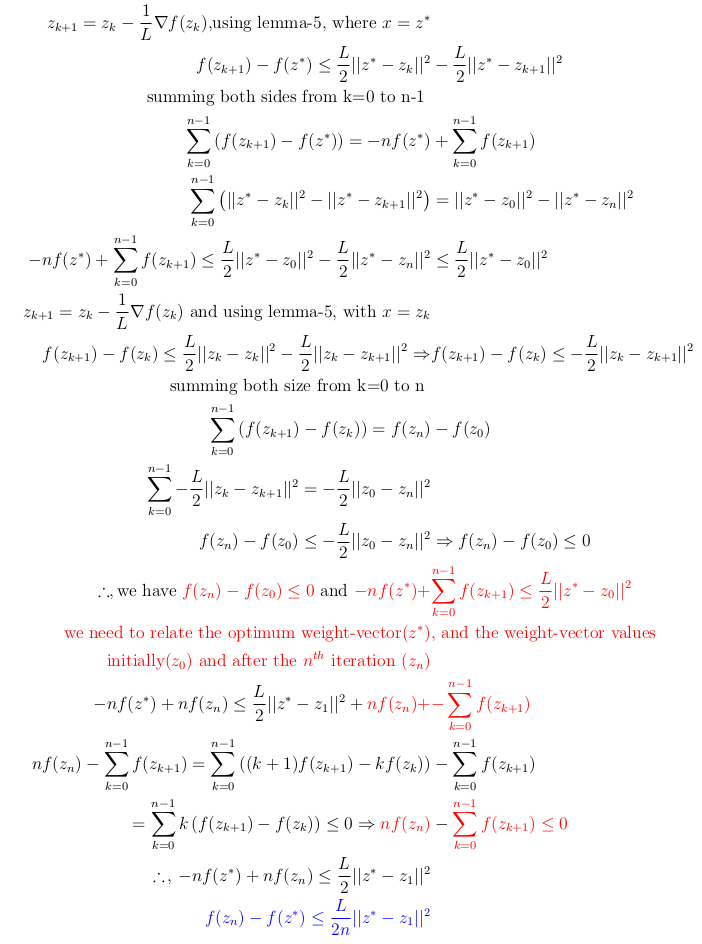
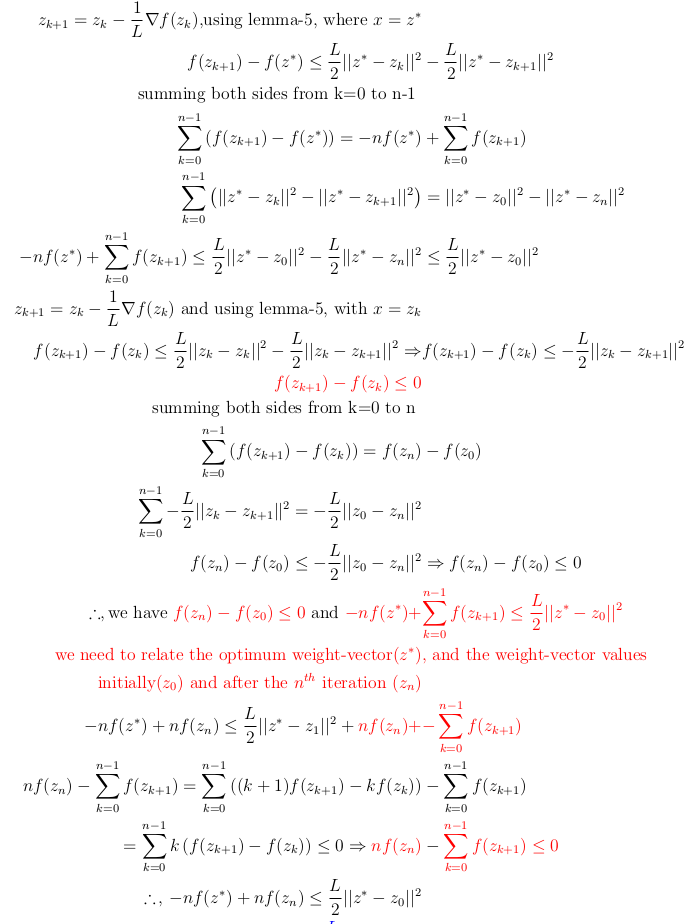
altered convergence proof image a bit

diff --git a/notes/ANN/README.md b/notes/ANN/README.md
@@ -171,11 +171,14 @@ y can either be the final output or the next layer. layer l having n neurons has
       <img src="proofs/lemma-5-proof.png" />
     - <font color="red">intuitive explanation remaining!!!!</font>
     - see, you need ![This is the rendered form of the equation. You can not edit this directly. Right click will give you the option to save the image, and in most browsers you can drag the image onto your desktop or another program.](https://latex.codecogs.com/gif.latex?x-z) and ![This is the rendered form of the equation. You can not edit this directly. Right click will give you the option to save the image, and in most browsers you can drag the image onto your desktop or another program.](https://latex.codecogs.com/gif.latex?x-z%5E&plus;) since z and ![This is the rendered form of the equation. You can not edit this directly. Right click will give you the option to save the image, and in most browsers you can drag the image onto your desktop or another program.](https://latex.codecogs.com/gif.latex?z%5E&plus;) will be substituted with ![This is the rendered form of the equation. You can not edit this directly. Right click will give you the option to save the image, and in most browsers you can drag the image onto your desktop or another program.](https://latex.codecogs.com/gif.latex?z_k) and ![This is the rendered form of the equation. You can not edit this directly. Right click will give you the option to save the image, and in most browsers you can drag the image onto your desktop or another program.](https://latex.codecogs.com/gif.latex?z_%7Bk&plus;1%7D) (as will be seen in the [next section](#cc)) , and these will cancel out on summing across all iterations, hence while arriving at this identity, think of these 2 magnitude terms being involved in the inequality.
+    - moreover, L.H.S. will need to have ![This is the rendered form of the equation. You can not edit this directly. Right click will give you the option to save the image, and in most browsers you can drag the image onto your desktop or another program.](https://latex.codecogs.com/gif.latex?f%28z%5E&plus;%29%20-%20f%28x%29) , since![This is the rendered form of the equation. You can not edit this directly. Right click will give you the option to save the image, and in most browsers you can drag the image onto your desktop or another program.](https://latex.codecogs.com/gif.latex?z%5E&plus;/x) will be substituted by ![This is the rendered form of the equation. You can not edit this directly. Right click will give you the option to save the image, and in most browsers you can drag the image onto your desktop or another program.](https://latex.codecogs.com/gif.latex?z_%7Bn%7D/z%5E*) , and ultimately we have to compare the loss function value at the n'th iteration vs. the loss function at the optima.
+      - and R.H.S. will have to be 
 
   - ### Final Convergence Criterion<a name="cc"></a>
 
     - z\* is the optimal point, i.e. the point at which the loss function is the least.
-    -  <img src="proofs/convergence-proof.png" />
+    - <img src="proofs/convergence-proof.png" />
+      ![This is the rendered form of the equation. You can not edit this directly. Right click will give you the option to save the image, and in most browsers you can drag the image onto your desktop or another program.](https://latex.codecogs.com/gif.latex?%7B%5Ccolor%7Bblue%7D%20f%28z_n%29%20-%20f%28z%5E*%29%20%5Cle%20%5Cfrac%7BL%7C%7Cz%5E*%20-%20z_0%7C%7C%5E2%7D%7B2n%7D%7D)
     - 
 
   - 
